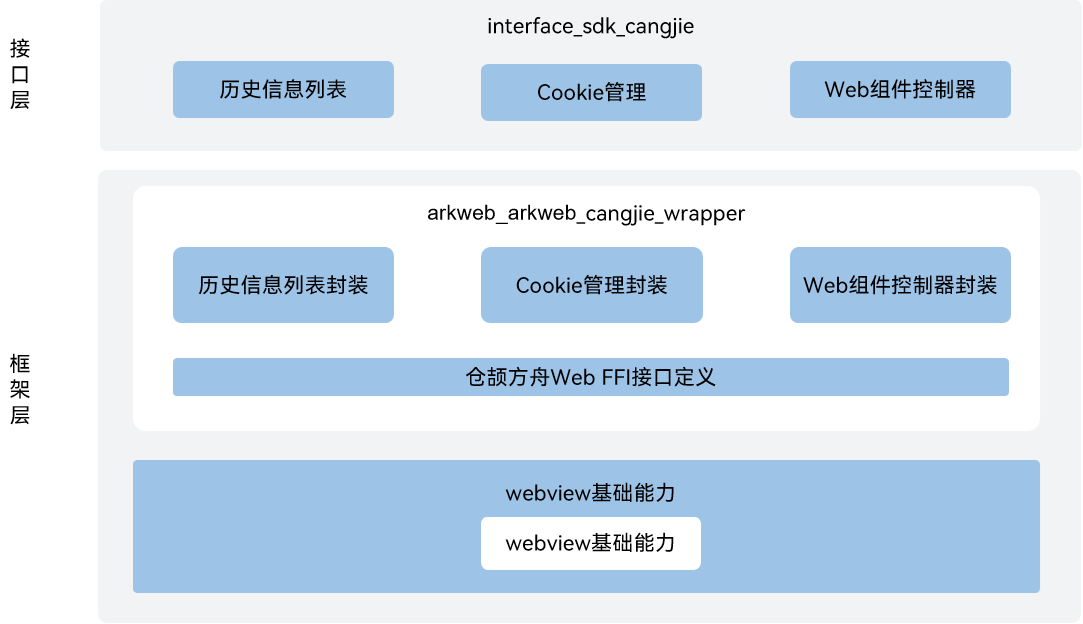
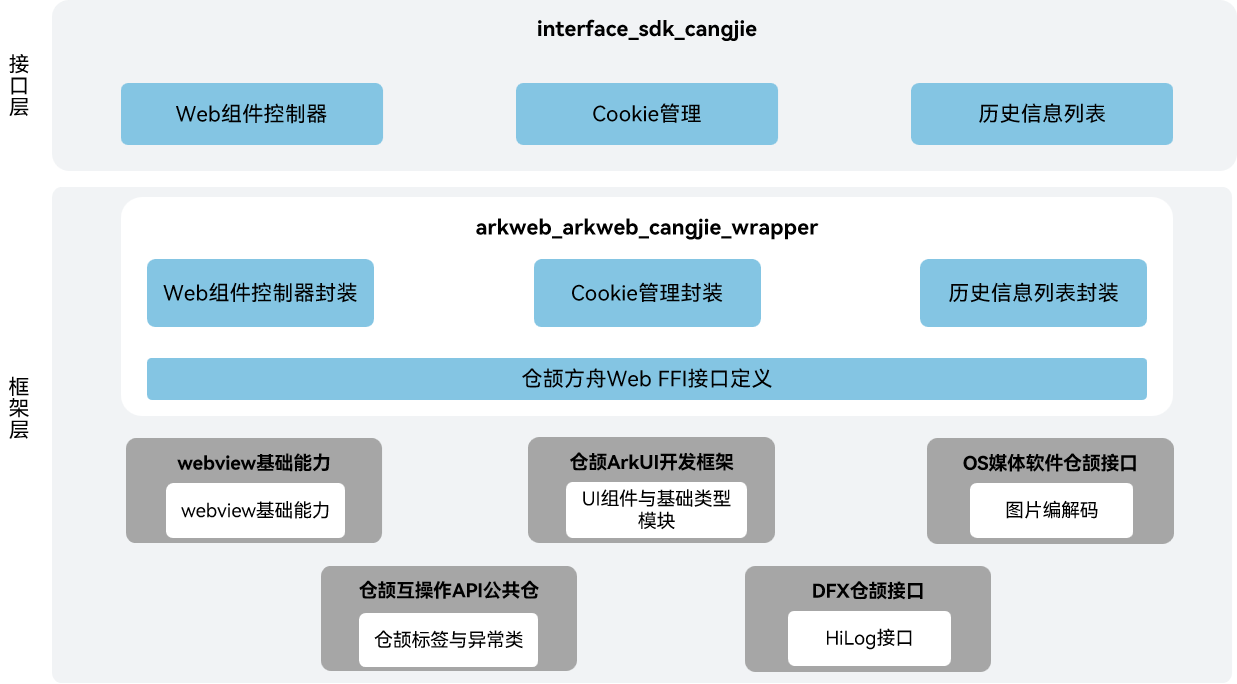
fix_readme

diff --git a/README.md b/README.md
@@ -13,11 +13,15 @@ The currently open ArkWeb Cangjie api only supports standard devices.
 
 As shown in the architecture:
 
-- BackForwardList: Provides the capability to obtain information about the historical record item at a specified index in the historical list.
-- WebCookieManager: Provides the capability to control various behaviors of cookies in Web components.
 - WebviewController: Provides the capability to control various behaviors of Web components (including behaviors such as page navigation, lifecycle status, and JavaScript interaction).
+- WebCookieManager: Provides the capability to control various behaviors of cookies in Web components.
+- BackForwardList: Provides the capability to obtain information about the historical record item at a specified index in the historical list.
 - Cangjie ArkWeb FFI Interface:  Based on cross-language interoperability via C interfaces to implement ArkWeb Cangjie API.
 - webview: Responsible for providing basic webview functions, and encapsulates C interfaces for Cangjie to conduct interoperation.
+- ArkUI Framework Cangjie Interface：Provides ResourceStr.
+- multimedia_cangjie_wrapper: Provides the capability to use media resources.
+- Cangjie Interop API Public Repository: Provides definitions for APILevel and BusinessException classes.
+- hiviewdfx_cangjie_wrapper: Provides a logging system that allows applications/services to output log content according to specified levels, identifiers, and format strings.
 
 ## Directory Structure
 
@@ -29,6 +33,23 @@ base/web/arkweb_cangjie_wrapper
 ├── ohos       # Cangjie ArkWeb code
 │   └── web
 └── test       # Cangjie ArkWeb test cases
+
+├── figures                                 # architecture pictures
+├── kit                                     # Cangjie ArkWeb kit code
+│   └── ArkWeb
+├── ohos                                    # Cangjie ArkWeb code
+│   └── web
+├── ohos
+│   └── web
+│       ├── BUILD.gn
+│       ├── web.cj
+│       └── webview
+│           ├── BUILD.gn
+│           ├── ...
+│           ├── back_forward_list.cj        # BackForwardList
+│           ├── web_cookie_manager.cj       # WebCookieManager
+│           └── webview_controller.cj       # WebviewController
+└── test                                    # Cangjie ArkWeb test cases
 ```
 ## Usage Guidelines
 
@@ -65,11 +86,15 @@ The following features are not provided yet:
   - NativeMediaPlayerHandler: Event Interface for Hosted Web Page Media Player
   - WebMessagePort: Message Port Between Web Frontend and App
 
-For ArkWeb-related APIs, please refer to [ohos.web.webview](https://gitcode.com/openharmony-sig/arkcompiler_cangjie_ark_interop/blob/master/doc/API_Reference/source_en/apis/ArkWeb/cj-apis-webview.md). For relevant guidance, please refer to [ArkWeb Development Guide](https://gitcode.com/openharmony-sig/arkcompiler_cangjie_ark_interop/blob/master/doc/Dev_Guide/source_en/web).
+For ArkWeb-related APIs, please refer to [ohos.web.webview](https://gitcode.com/openharmony-sig/arkcompiler_cangjie_ark_interop/blob/master/doc/API_Reference/source_en/apis/ArkWeb/cj-apis-webview.md). For relevant guidance, please refer to [ArkWeb Development Guide](https://gitcode.com/openharmony-sig/arkcompiler_cangjie_ark_interop/blob/master/doc/Dev_Guide/source_en/web/cj-web-component-overview.md).
+
+## Code Contribution
+
+Developers are welcome to contribute code, documentation, etc. For specific contribution processes and methods, please refer to [Code Contribution](https://gitcode.com/openharmony/docs/blob/master/en/contribute/code-contribution.md).
 
 ## Repositories Involved
 
-[web_webview](https://gitee.com/openharmony/web_webview)
+[web_webview](https://gitcode.com/openharmony/web_webview)
 
 [arkcompiler_cangjie_ark_interop](https://gitcode.com/openharmony-sig/arkcompiler_cangjie_ark_interop)
 
@@ -77,8 +102,4 @@ For ArkWeb-related APIs, please refer to [ohos.web.webview](https://gitcode.com/
 
 [multimedia_multimedia_cangjie_wrapper](https://gitcode.com/openharmony-sig/multimedia_multimedia_cangjie_wrapper)
 
-[global_global_cangjie_wrapper](https://gitcode.com/openharmony-sig/global_global_cangjie_wrapper)
-
-## Code Contribution
-
-Developers are welcome to contribute code, documentation, etc. For specific contribution processes and methods, please refer to [Code Contribution](https://gitcode.com/openharmony/docs/blob/master/en/contribute/code-contribution.md).
+[hiviewdfx_hiviewdfx_cangjie_wrapper](https://gitcode.com/openharmony-sig/hiviewdfx_hiviewdfx_cangjie_wrapper)
